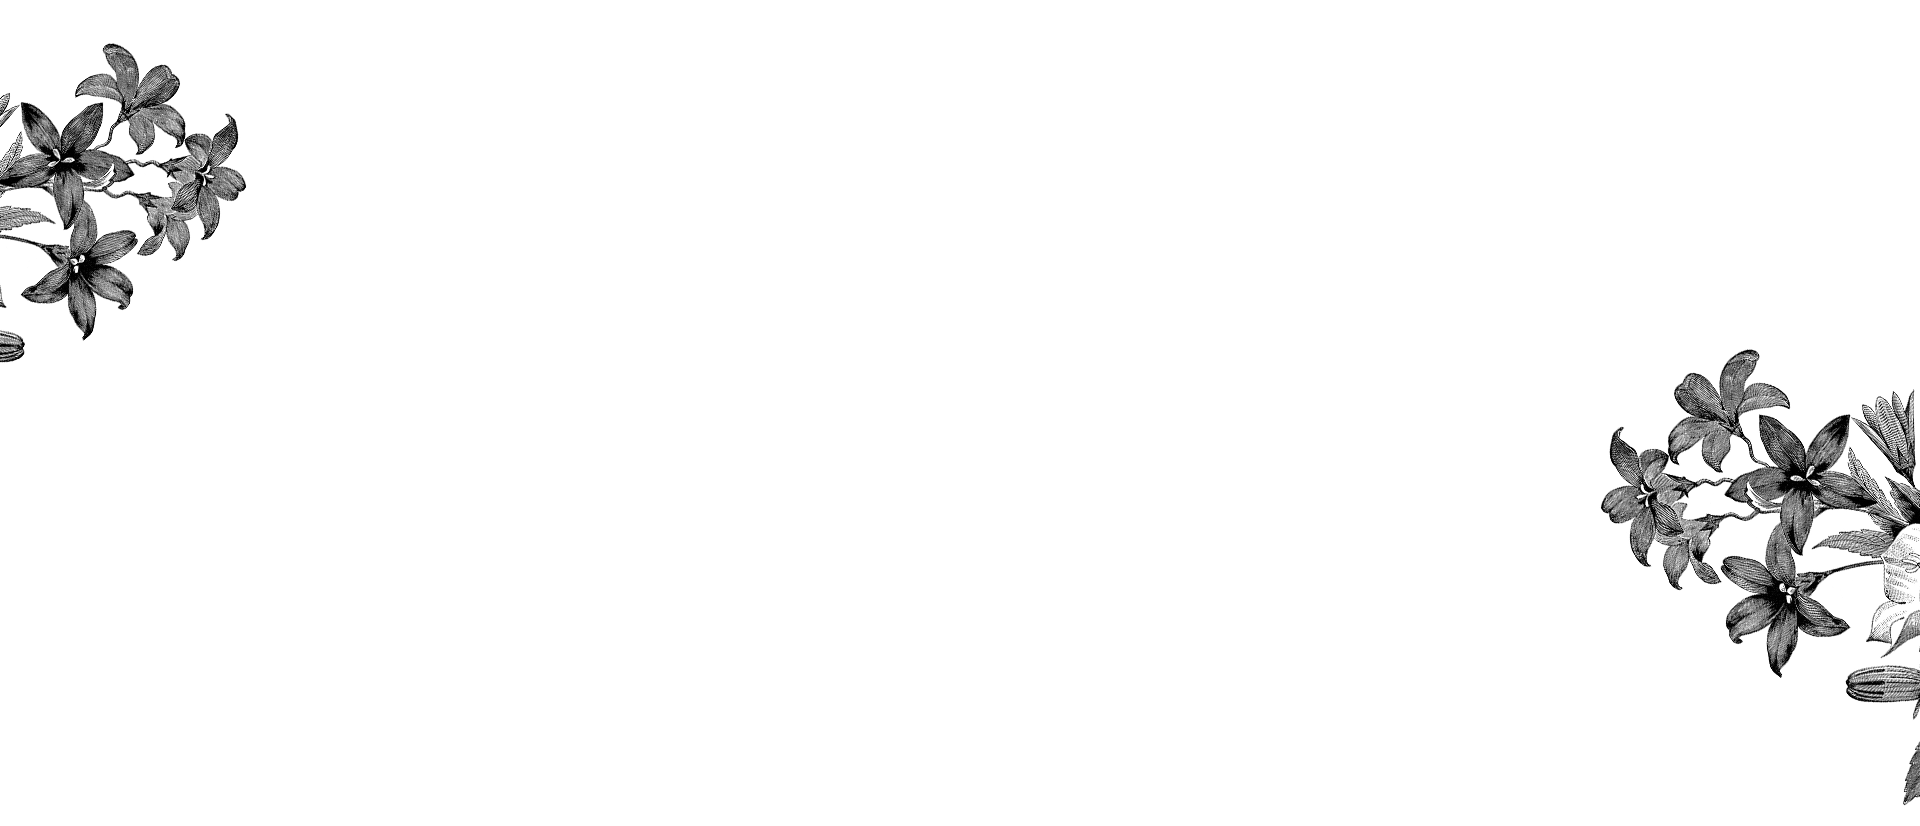
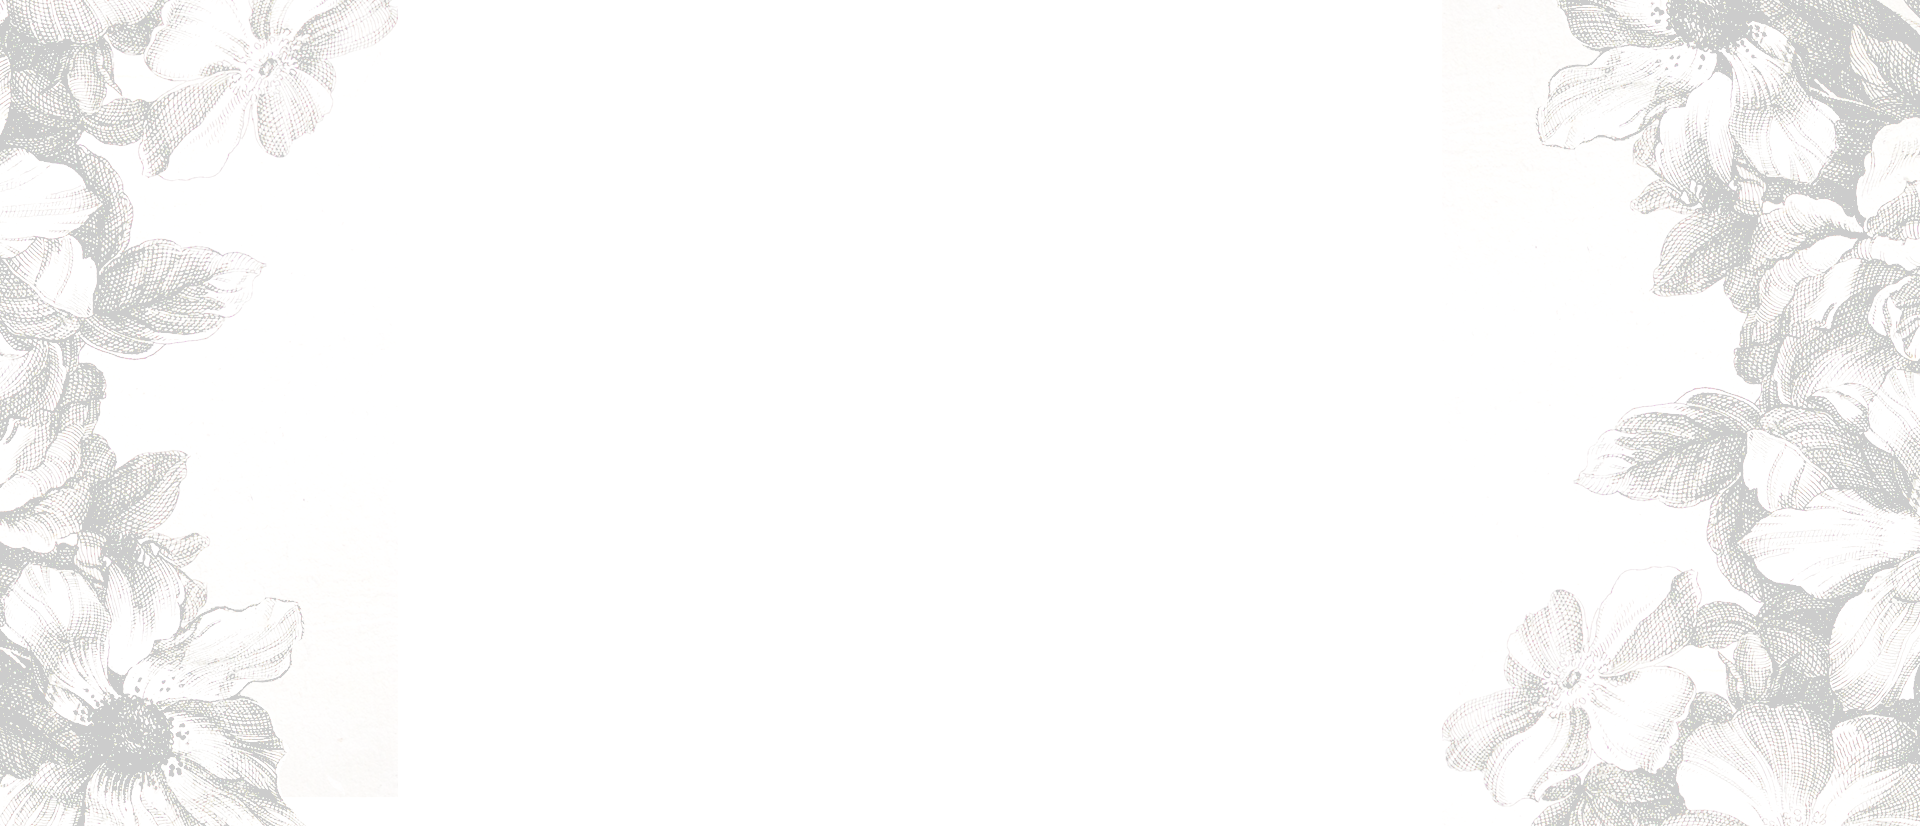
MAJ Home
brap brap

Changed region(s): [[0.75, 0.0, 1.0, 1.0], [0.0, 0.0, 0.1875, 1.0]]

diff --git a/silex-skeleton/web/css/index.css b/silex-skeleton/web/css/index.css
@@ -3,6 +3,10 @@
 /*Style général*/
 
 
+a{
+    color: black;
+}
+
 .traitprofile{
     background: transparent;
     width: 5rem;
@@ -25,9 +29,9 @@
 }
 
 #mainindex{
-    background-image: url('../img/general_bg.jpg');
-    overflow: inherit;
+    background-image: url('../img/general_bg.png');
     background-position: center;
+    background-size: contain;
     background-repeat: repeat;
 }
 
@@ -55,12 +59,24 @@
 }
 
 #sectionhome1 h2, #sectionhome1 p{
-    
+
     margin-bottom: 2rem;
 }
 
 #sectionhome1 form select{
-    margin-right: 2rem;
+    color: #2F3635;
+    background-color: #fff;
+    border-radius: 0rem;
+    border: solid .2rem #2F3635;
+    box-sizing: border-box;
+    clear: both;
+    cursor: pointer;
+    font-family: overpass;
+    font-size: 1.2rem;
+    font-weight: normal;
+    height: 4.2rem;
+    line-height: 4rem;
+
 }
 
 #choix input[type=submit]{
@@ -84,18 +100,25 @@
 
 /*Section home2*/
 
-#sectionhome2{
+#sectionhome2 {
     text-align: center;
+    padding: 5rem;
+}
+
+#sectionhome2 p{
+    margin-bottom: 2rem;
+    padding: 2rem;
 }
 
 #sectionhome2 article{
     display: inline-block;
     width: 33%;
+    vertical-align: top;
     text-align: center;
 }
 
 #sectionhome2 h2, #sectionhome2 h2+p{
-    
+
     text-align: center;
     padding: 1rem 0;
     margin: 1rem auto;
@@ -103,11 +126,13 @@
 }
 
 #sectionhome2 article+p{
-    font-family: 'Open Sans Condensed', sans-serif;
+    font-family: 'overpass', sans-serif;
+    font-weight: 400;
     width: 40%;
     display: block;
     margin: 4rem auto;
-    font-size: 1.7rem;
+    font-size: 1.4rem;
+    letter-spacing: .2rem;
     text-transform: uppercase;
     border: .2rem black groove;
     text-align: center;
@@ -129,11 +154,12 @@
     width: 60%;
     height: 100%;
     padding: 2rem;
-    margin-top: 2rem;
+
 }
 
 #sectionhome3 h2, #sectionhome3 p{
     padding: 2rem;
+    margin: 0;
 }
 
 #sectionhome3 #line{
@@ -141,10 +167,12 @@
 }
 
 #sectionhome3 #border{
-    font-family: 'Open Sans Condensed', sans-serif;
+    font-family: 'overpass', sans-serif;
+    font-weight: 400;
     display: block;
     width: 40%;
-    font-size: 1.7rem;
+    font-size: 1.4rem;
+    letter-spacing: .2rem;
     text-transform: uppercase;
     border: .2rem black groove;
     text-align: center;
@@ -155,22 +183,22 @@
 /*Section home4*/
 
 #sectionhome4{
-    background-color: #F7F7F7;
+    background-color: transparent;
     height: auto;
-    padding-bottom: 3rem;
+    padding: 5rem;
     text-align: center;
 }
 
 #sectionhome4 article{
-    vertical-align: top;
-    display: inline-block;
-    width: 18%;
-    margin: 2rem;
+    vertical-align: middle;
+    display: inline-flex;
+    width: 20%;
+    margin-bottom: 2rem;
 }
 
 #sectionhome4 img{
-    width: 60%;
-    margin-bottom: 1rem;
+    width: 50%;
+    margin-bottom: 2rem;
 }
 
 #sectionhome4 h2{
@@ -181,10 +209,12 @@
 }
 
 #sectionhome4 #box{
-    font-family: 'Open Sans Condensed', sans-serif;
+    font-family: 'overpass', sans-serif;
+    font-weight: 400;
     display: block;
     width: 40%;
-    font-size: 1.7rem;
+    font-size: 1.4rem;
+    letter-spacing: .2rem;
     text-transform: uppercase;
     border: .2rem black groove;
     text-align: center;
@@ -193,7 +223,7 @@
 }
 
 #sectionhome4 #refractaire img{
-    width: 70%;
+    width: 50%;
 }
 
 /*Style sectionhome5*/
@@ -209,13 +239,16 @@
     display: inline-block;
     width: 45%;
     height: auto;
+    padding: 5rem;
 }
 
 #sectionhome5 #p1{
-    font-family: 'Open Sans Condensed', sans-serif;
+    font-family: 'overpass', sans-serif;
+    font-weight: 400;
     display: inline;
     width: 20%;
-    font-size: 1.7rem;
+    font-size: 1.4rem;
+    letter-spacing: .2rem;
     text-transform: uppercase;
     border: .2rem black groove;
     padding: 2rem 4rem;
@@ -227,10 +260,10 @@
 }
 
 /*Style section home6*/
-#sectionhome6{
+#sectionhome6 {
     text-align: center;
-    margin: 2rem 2rem 4rem 2rem;
-    padding-right: 2rem;
+    /* margin: 2rem 2rem 0rem 2rem; */
+    padding: 4rem;
 }
 
 #sectionhome6 h2{
@@ -263,6 +296,20 @@ Ecran d'une taille jusqu'à 850px
 
 @media all and (max-width: 850px){
 
+    .trait{
+        background: transparent;
+        width: 5rem;
+        margin: auto;
+        border-bottom: .2rem solid #2F3635;
+
+    }
+
+    #mainindex{
+        background-image: url('../img/general_bg.png');
+        background-position: center;
+        background-size: cover;
+
+    }
     /*Style sectionhome1*/
     #sectionhome1 p, #sectionhome1 h2{
         color: black;
@@ -299,6 +346,11 @@ Ecran d'une taille jusqu'à 850px
 
     /*Style sectionhome2*/
 
+    #sectionhome2 {
+        text-align: center;
+        padding: 2rem;
+    }
+
     #sectionhome2 article{
         display: block;
         margin: 0 auto;
@@ -323,7 +375,7 @@ Ecran d'une taille jusqu'à 850px
     /*Style sectionhome4*/
     #sectionhome4{
         height: auto;
-        padding-bottom: 2rem;
+        padding: 0 0 2rem 0;
     }
 
     #sectionhome4 article{
@@ -344,19 +396,21 @@ Ecran d'une taille jusqu'à 850px
 
     #sectionhome5{
         text-align: center;
+        padding: 0rem;
     }
 
-    #sectionhome5 div{
+    #sectionhome5 div:not(.trait){
         margin: 1rem auto;
         padding: .3rem 1rem 3rem 1rem;
         background-color: #F7F7F7;
-        width: 100%;
+        /* width: 100%; */
         height: auto;
     }
 
     #sectionhome5 article{
         display: block;
         width: 100%;
+        padding: 0 0 2rem 0;
     }
 
     #sectionhome5 article h2, #sectionhome5 article h3, #sectionhome5 article p{
